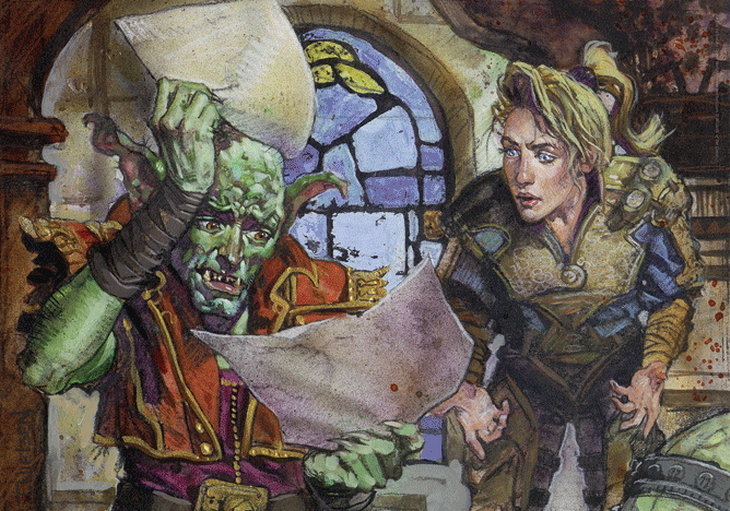
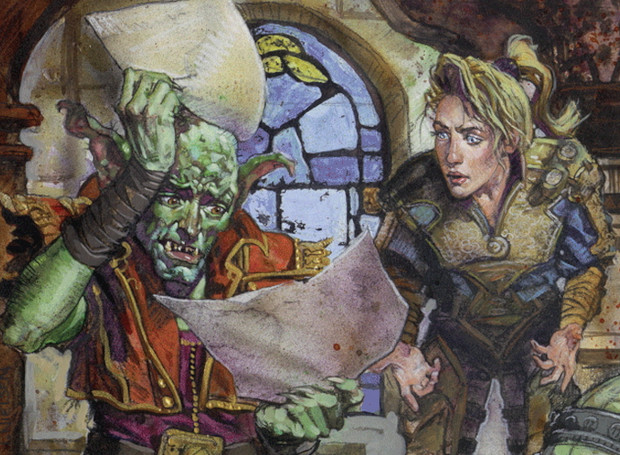
Edits to make the images on home/about responsive - resized 90 to match 48, a little jarring tabbing between

diff --git a/web_app/templates/about.html b/web_app/templates/about.html
@@ -5,8 +5,10 @@
 {% block content %}
 
     <h1>Magic the Gathering - Cube P1P1</h1>
-        <!-- pulled this info on image insertion from : https://getbootstrap.com/docs/4.0/content/images/-->
-    <img src="https://raw.githubusercontent.com/ebd20/Flask-Sheets/main/Images/048.jpg" class="rounded mx-auto d-block"  alt="Responsive image">
+ <!-- pulled this info on image insertion from : https://getbootstrap.com/docs/4.0/content/images/ - it wasn't responsive out of the box, CHATGPT helped me with that:
+https://chat.openai.com/share/2f255a7a-8f66-4fbc-80ee-f8771b482d7f-->
+ <img src="https://raw.githubusercontent.com/ebd20/Flask-Sheets/main/Images/048.jpg" class="rounded mx-auto d-block d-none d-md-block" alt="Responsive image">
+
 
     <p class="lead"><b>A Magic: The Gathering cube</b> is a custom set of Magic the Gathering cards that a player or group of players has put together for the purpose of drafting. These cubes often consist of a curated set of cards that allow for numerous draft possibilities. Cubes can vary widely in themes, sizes, and the power level of the cards included. They provide a reusable and personalized drafting experience without the need to purchase new packs.</p>
 

diff --git a/web_app/templates/home.html b/web_app/templates/home.html
@@ -4,8 +4,9 @@
 {% block content %}
 
     <h1>Cubes and Magic: The Gathering</h1>
- <!-- pulled this info on image insertion from : https://getbootstrap.com/docs/4.0/content/images/-->
-    <img src="https://raw.githubusercontent.com/ebd20/Flask-Sheets/main/Images/090.jpg" class="rounded mx-auto d-block"  alt="Responsive image">
+ <!-- pulled this info on image insertion from : https://getbootstrap.com/docs/4.0/content/images/ - it wasn't responsive out of the box, CHATGPT helped me with that:
+https://chat.openai.com/share/2f255a7a-8f66-4fbc-80ee-f8771b482d7f-->
+ <img src="https://raw.githubusercontent.com/ebd20/Flask-Sheets/main/Images/090.jpg" class="rounded mx-auto d-block d-none d-md-block" alt="Responsive image">
 
     <p class="lead"><b>A Brief History of Magic: The Gathering Cubes.</b></p>
 
